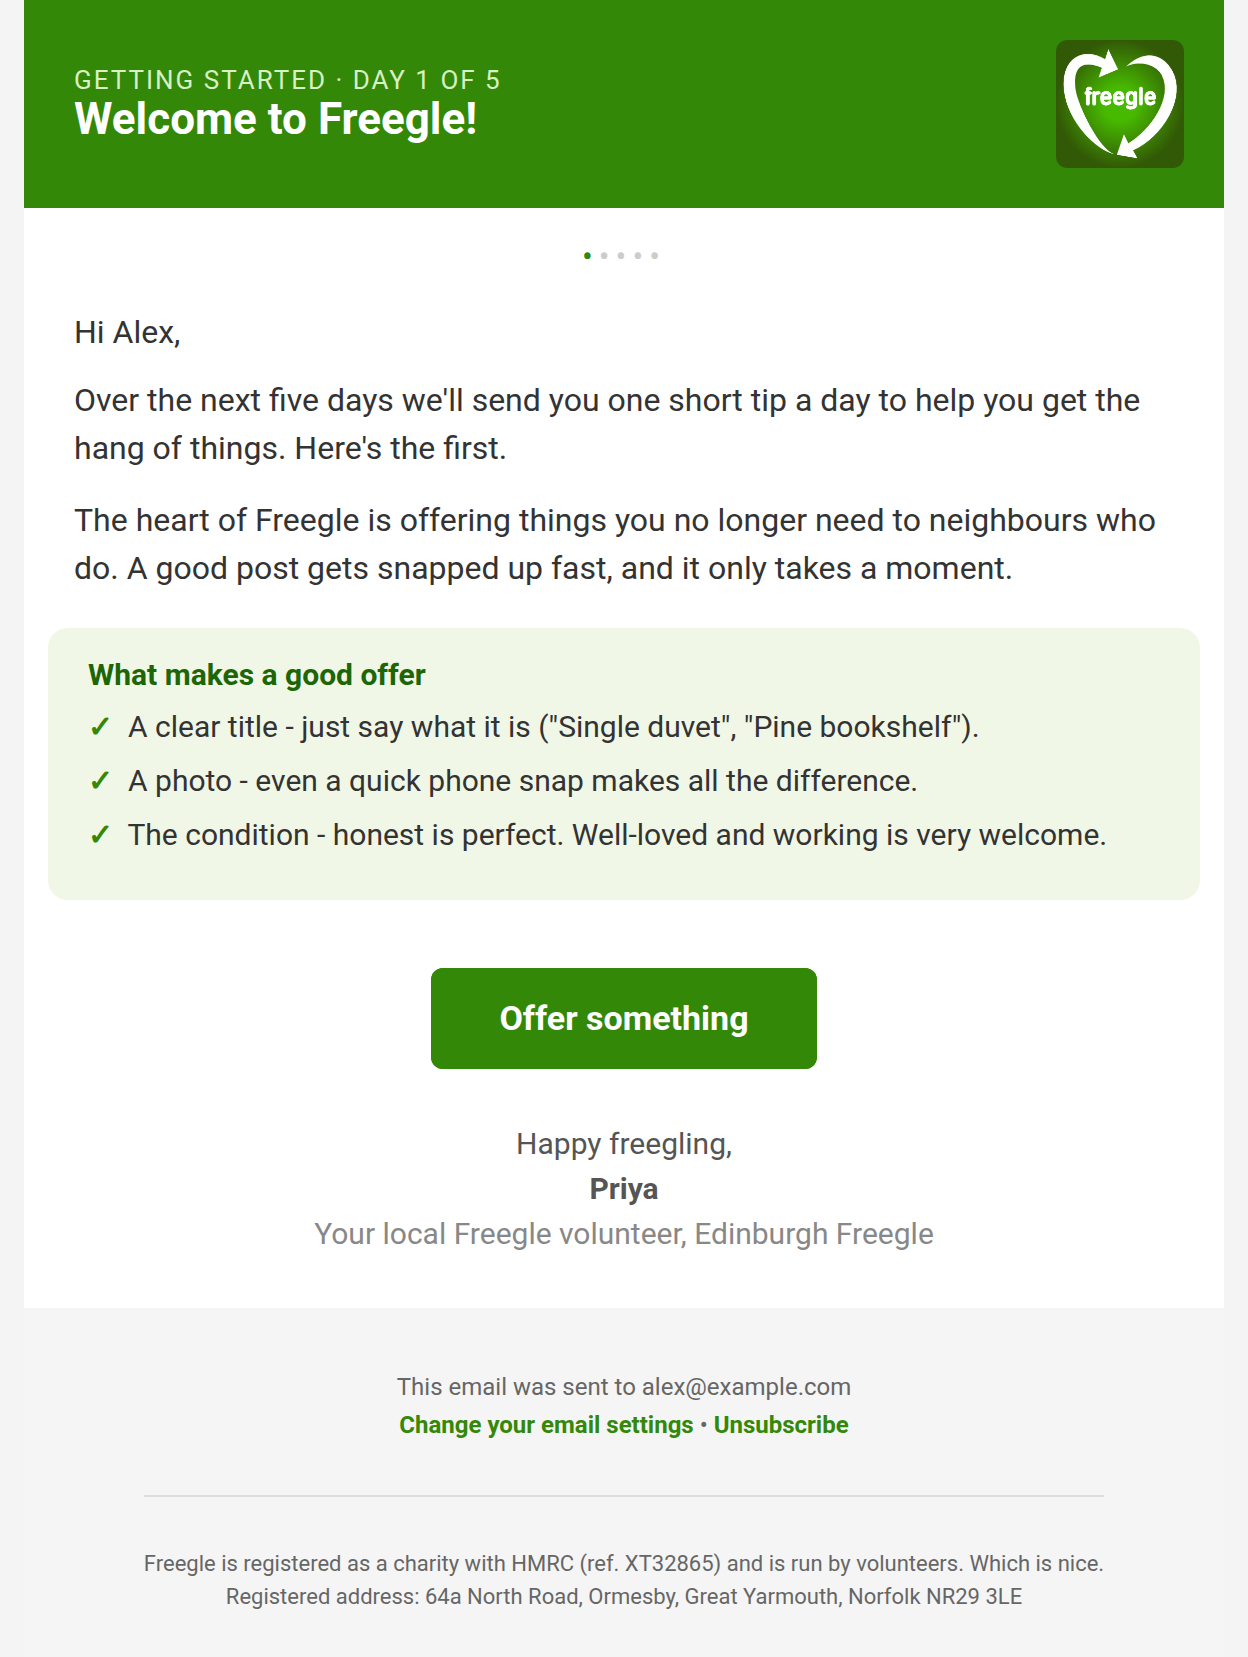
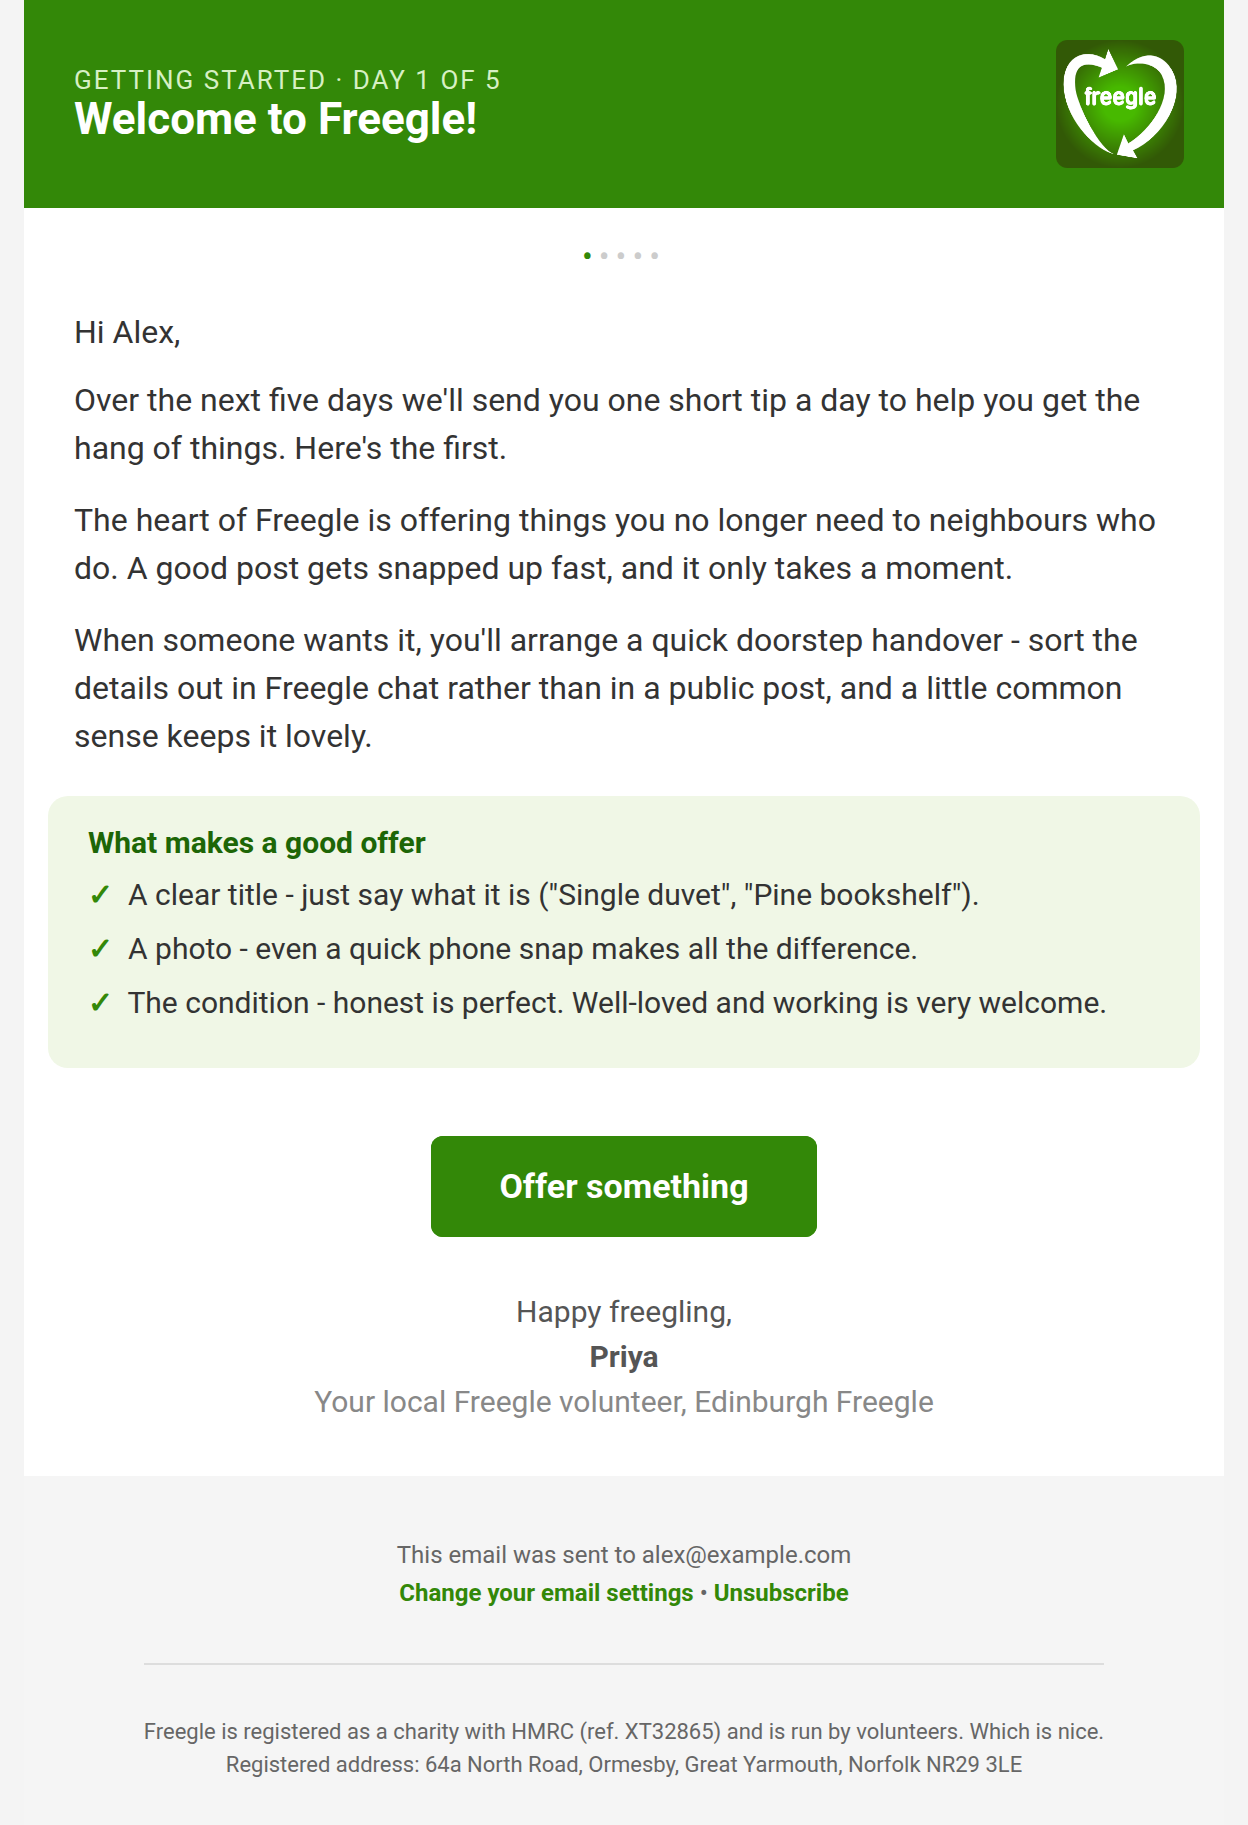
refine(onboarding): move safe-collection guidance from day 5 to day 1
A new member can be arranging their first doorstep pickup within the hour of
their first offer, so the safety/etiquette message (sort details out in
Freegle chat rather than a public post, keep to a doorstep handover, a little
common sense) shouldn't wait until the day-5 wrap-up. Moved it into the day-1
offer tip; day 5 reverts to its original good-neighbour recap.

Test and day 1/5 screenshots updated to match.

Claude-Session: https://claude.ai/code/session_01Rm8xqAcBsnaYWZkrp5KAMA

diff --git a/iznik-batch/app/Services/ReengageContentService.php b/iznik-batch/app/Services/ReengageContentService.php
@@ -101,6 +101,7 @@ class ReengageContentService
                 'intro'     => "Over the next five days we'll send you one short tip a day to help you get the hang of things. Here's the first.",
                 'body'      => [
                     "The heart of Freegle is offering things you no longer need to neighbours who do. A good post gets snapped up fast, and it only takes a moment.",
+                    "When someone wants it, you'll arrange a quick doorstep handover - sort the details out in Freegle chat rather than in a public post, and a little common sense keeps it lovely.",
                 ],
                 'highlight' => [
                     'title' => 'What makes a good offer',
@@ -168,7 +169,7 @@ class ReengageContentService
                 'intro'     => "That's the lot - you've got the hang of it.",
                 'body'      => [
                     "A quick recap: offer the things you're not using, ask for what you need, and search for anything specific. Then keep an eye on what's popping up nearby.",
-                    "One last thing. Freegle works because of neighbours being kind to each other - reply promptly, sort out the details in Freegle chat rather than in a public post, keep it to an easy doorstep pickup, and say thanks. A little common sense keeps it lovely for everyone.",
+                    "One last thing. Freegle works because of neighbours being kind to each other - reply promptly, arrange an easy doorstep pickup, and say thanks. That's really all there is to it.",
                 ],
                 'highlight' => [
                     'title' => 'Your Freegle in a nutshell',

diff --git a/iznik-batch/tests/Unit/Mail/ReengageMailRenderTest.php b/iznik-batch/tests/Unit/Mail/ReengageMailRenderTest.php
@@ -66,18 +66,17 @@ class ReengageMailRenderTest extends TestCase
         $this->assertStringContainsString('Search Freegle', $html);
     }
 
-    public function test_day5_gives_safe_neighbourly_collection_guidance(): void
+    public function test_day1_gives_safe_neighbourly_collection_guidance(): void
     {
-        // The wrap-up tip carries the safety/etiquette message that hundreds of
-        // groups put in their own welcome mails: arrange privately in chat (not a
-        // public post), keep to a doorstep pickup, and use common sense.
-        $html = view('emails.mjml.reengage.tip', $this->data(5))->render();
+        // The safety/etiquette message that hundreds of groups put in their own
+        // welcome mails - arrange privately in chat (not a public post), keep to a
+        // doorstep handover, use common sense - lands on day 1: a new member can be
+        // arranging their first pickup within the hour of their first offer, so it
+        // must not wait until the day-5 wrap-up.
+        $html = view('emails.mjml.reengage.tip', $this->data(1))->render();
 
-        // Heading contains an apostrophe which Blade escapes in HTML, so match an
-        // apostrophe-free substring.
-        $this->assertStringContainsString('freegler now', $html);
+        $this->assertStringContainsString('doorstep handover', $html);
         $this->assertStringContainsString('in Freegle chat rather than in a public post', $html);
-        $this->assertStringContainsString('doorstep pickup', $html);
         $this->assertStringContainsString('common sense', $html);
     }
 
